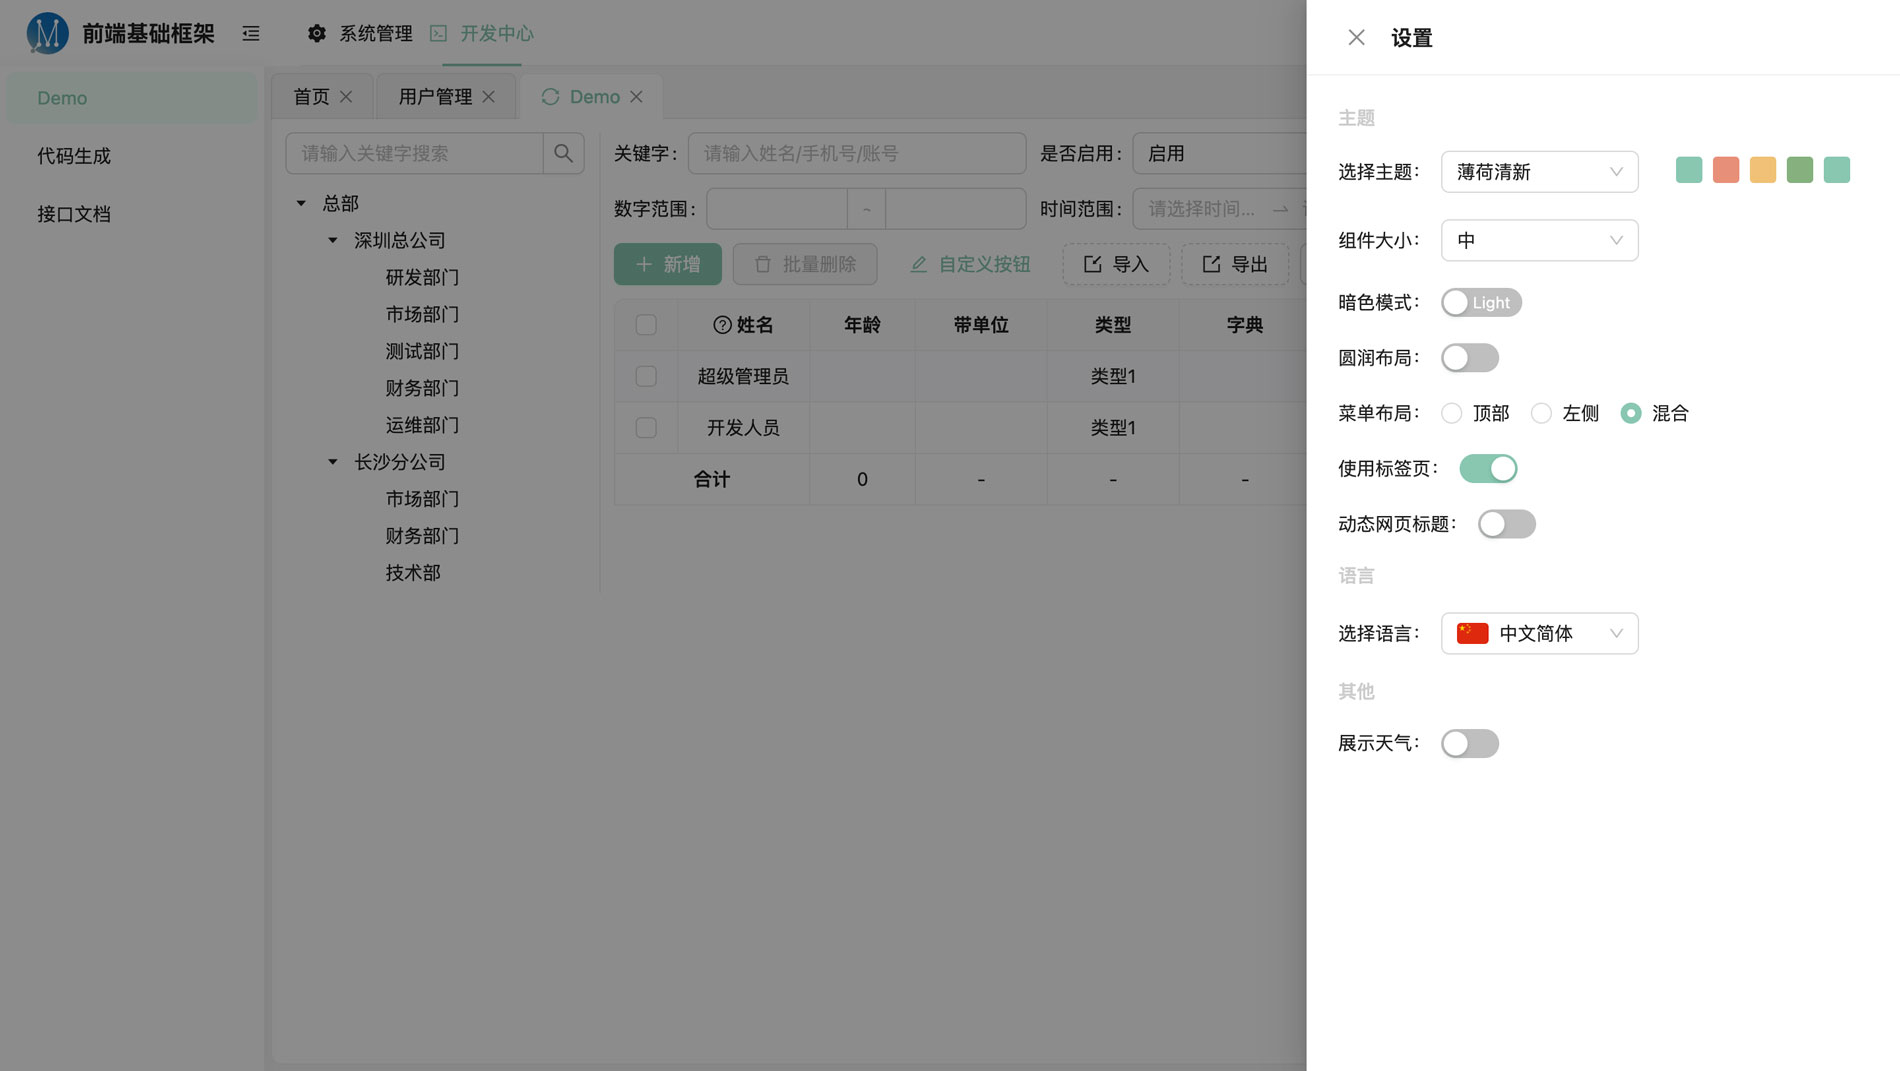
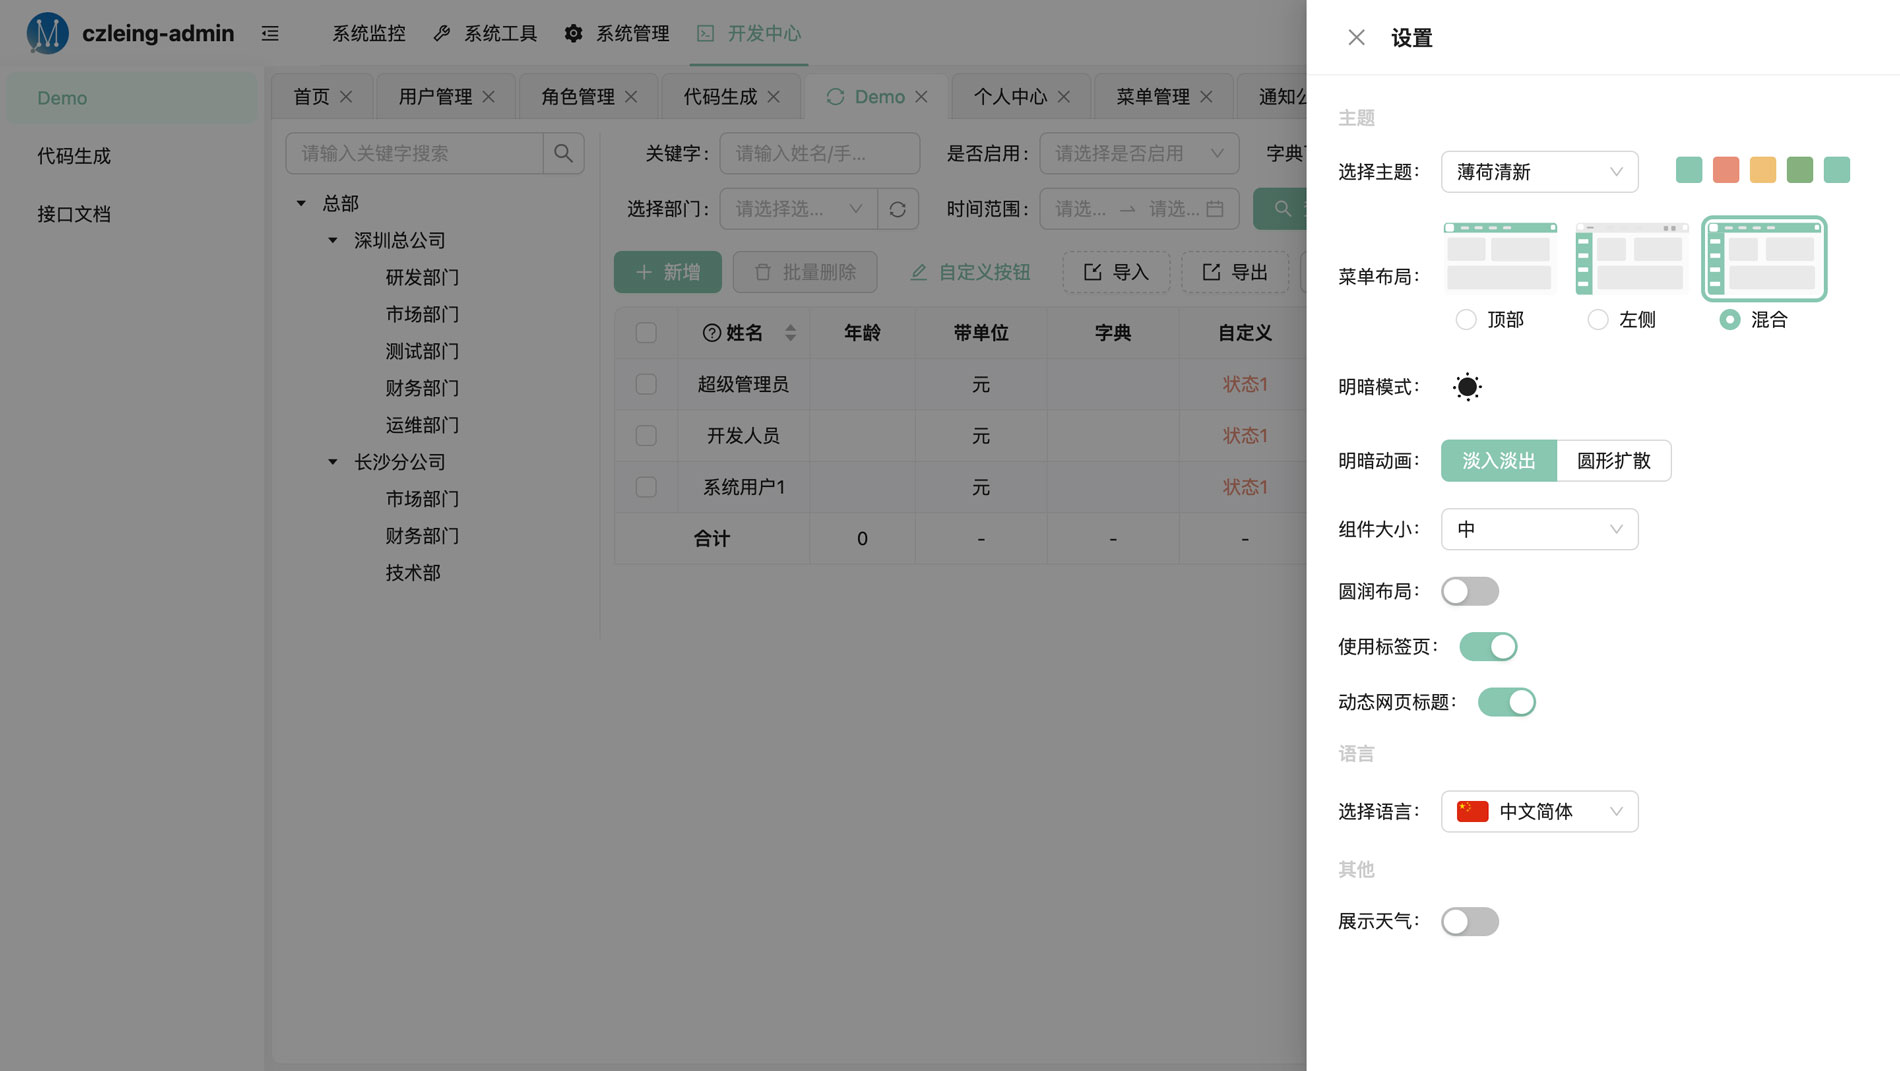
perf: 优化

diff --git a/src/layout/components/header/mode-switch.vue b/src/layout/components/header/mode-switch.vue
@@ -1,6 +1,10 @@
 <!-- 切换明暗色系相关 -->
 <template>
-  <a-switch v-model:checked="isDark" checked-children="Dark" un-checked-children="Light" @change="changeMode"></a-switch>
+  <!-- <a-switch v-model:checked="isDark" checked-children="Dark" un-checked-children="Light" @change="changeMode"></a-switch> -->
+  <div class="mode-switch pointer" :class="{'is-dark': isDark}" @click="changeMode">
+    <div class="stars"></div>
+    <div class="sun-moon"></div>
+  </div>
 </template>
 <script setup>
 import { useSettingStore } from '@/stores/setting-store.js'
@@ -8,14 +12,21 @@ const settingStore = useSettingStore()
 const isDark = ref(settingStore.isDark)
 const root = document.documentElement;
 
-async function changeMode (val, e) {
+watch(
+  () => settingStore.isDark,
+  () => {
+    isDark.value = settingStore.isDark
+  }
+)
+
+async function changeMode (e) {
   const x = e.clientX, y = e.clientY;
   if (!document.startViewTransition) {
-    isDark.value = val
+    isDark.value = !isDark.value
     settingStore.toggleMode()
     return
   }
-  isDark.value = val
+  isDark.value = !isDark.value
   await sleep(200)
   const vt = document.startViewTransition(async () => {
     settingStore.toggleMode()
@@ -42,9 +53,10 @@ function playEffect(x, y) {
     ]
   }
   frames && root.animate(frames, {
-    duration: 1000,
+    duration: 650,
     easing: 'linear',
-    pseudoElement: isDark.value ? '::view-transition-new(root)' : '::view-transition-old(root)'
+    pseudoElement: isDark.value ? '::view-transition-new(root)' : '::view-transition-old(root)',
+    fill: 'both'
   });
 }
 </script>
@@ -55,7 +67,7 @@ function playEffect(x, y) {
   mix-blend-mode: normal;
 }
 ::view-transition-old(root) {
-  z-index: 99;
+  z-index: 999;
   // left: 30px;
   // top: 90px;
 }
@@ -68,6 +80,70 @@ function playEffect(x, y) {
   z-index: 1;
 }
 [theme='dark']::view-transition-new(root)  {
-  z-index: 99;
+  z-index: 999;
+}
+
+</style>
+<style scoped lang="less">
+.mode-switch {
+  width: 40px;
+  height: 40px;
+  overflow: visible;
+  position: relative;
+  transform: scale(0.7);
+  .stars {
+    position: absolute;
+    inset: 0;
+    background-image:
+      radial-gradient(circle 2px, var(--ant-colorText) 80%, transparent 80%),
+      radial-gradient(circle 2px, var(--ant-colorText) 80%, transparent 80%),
+      radial-gradient(circle 2px, var(--ant-colorText) 80%, transparent 80%),
+      radial-gradient(circle 2px, var(--ant-colorText) 80%, transparent 80%),
+      radial-gradient(circle 2px, var(--ant-colorText) 80%, transparent 80%),
+      radial-gradient(circle 2px, var(--ant-colorText) 80%, transparent 80%),
+      radial-gradient(circle 2px, var(--ant-colorText) 80%, transparent 80%),
+      radial-gradient(circle 2px, var(--ant-colorText) 80%, transparent 80%);
+    background-position:
+      4px 19px,
+      8px 9px,
+      18px 4px,
+      28px 9px,
+      32px 18px,
+      28px 28px,
+      19px 32px,
+      9px 28px;
+    background-size: 4px 4px;
+    background-repeat: no-repeat;
+    transition: all .2s;
+  }
+  .sun-moon {
+    position: absolute;
+    background-color: transparent;
+    border-radius: 80%;
+    left: -20px;
+    top: -20px;
+    width: 20px;
+    height: 20px;
+    box-shadow: 30px 30px 0 0 var(--ant-colorText);
+    transition: all .2s;
+  }
+  &.is-dark {
+    .stars {
+      background-position:
+        2px 15px,
+        4px 6px,
+        13px 13px,
+        17px 7px,
+        27px 8px,
+        24px 3px,
+        31px 4px,
+        34px 10px;
+      background-size: 1px 1px;
+    }
+    .sun-moon {
+      transform: translate(22px, 22px);
+      box-shadow: 8px 8px 0 0 var(--ant-colorText);
+    }
+  }
 }
 </style>

diff --git a/src/stores/setting-store.js b/src/stores/setting-store.js
@@ -62,7 +62,7 @@ export const useSettingStore = defineStore('setting', () => {
   const theme = ref({ token: { ...themes.find(item => item.inUse)?.theme?.token } }) // 当前主题色系
   const themeName = ref(themes.find(item => item.inUse)?.name) // 当前主题名称
   const mode = ref('light') // 昼夜模式 light or dark
-  const modeAnimate = ref('circle') // 切换昼夜模式的动画 fade, circle
+  const modeAnimate = ref('fade') // 切换昼夜模式的动画 fade, circle
   const locale = ref('zh-cn') // 当前语言 zh-cn, zh-hk, en
   const componentSize = ref('middle') // 当前组件尺寸
   const menuLayout = ref('top') // 菜单布局方式，top: 全部显示在顶部，left: 全部显示在左侧，top-left: 顶部一级菜单，左侧子菜单

diff --git a/src/layout/components/header/index.vue b/src/layout/components/header/index.vue
@@ -41,12 +41,13 @@
       scrolling="no"
       :style="settingStore.isDark ? 'filter:invert(1);' : ''"
     ></iframe>
-    <a-space :size="15">
+    <div class="flex-x x-middle gap10">
       <HeaderMessage />
       <HeaderFullscreen />
+      <ModeSwitch />
       <HeaderSetting />
       <HeaderUser />
-    </a-space>
+    </div>
   </div>
 </template>
 
@@ -60,6 +61,7 @@ import HeaderMessage from './header-message.vue'
 import HeaderFullscreen from './header-fullscreen.vue'
 import HeaderSetting from './header-setting.vue'
 import { MenuFoldOutlined, MenuUnfoldOutlined } from '@ant-design/icons-vue'
+import ModeSwitch from './mode-switch.vue'
 
 const menuStore = useMenuStore()
 const settingStore = useSettingStore()

diff --git a/src/views/modules/system/notice/index.vue b/src/views/modules/system/notice/index.vue
@@ -131,7 +131,7 @@
    */
   const modalConfig = computed(() => ({
     title: '通知公告', // 弹窗标题，会自动根据类型拼上新增、编辑、详情关键字
-    width: 700, // 弹窗宽度，默认 600
+    width: 900, // 弹窗宽度，默认 600
     mode: 'modal', // 弹窗模式, modal 或 drawer
     buttonConfig: ({ isAdd, isEdit, isView }) => ({
       confirmText: isEdit ? '确认修改' : '确认提交', // 默认是确定
@@ -169,6 +169,7 @@
           wrapperCol: { span: 20 },
           required: true,
           props: {
+            height: '300px'
           }
         },
         {

diff --git a/README.md b/README.md
@@ -83,6 +83,7 @@ npm run preview
 <img src='./src/doc/light4.jpg' alt="light">
 <img src='./src/doc/light9.jpg' alt="light">
 <img src='./src/doc/light5.jpg' alt="light">
+<img src='./src/doc/notice.jpg' alt="light">
 <img src='./src/doc/dark.jpg' alt="dark">
 <img src='./src/doc/dark2.jpg' alt="dark">
 <img src='./src/doc/light6-1.jpg' alt="light">
